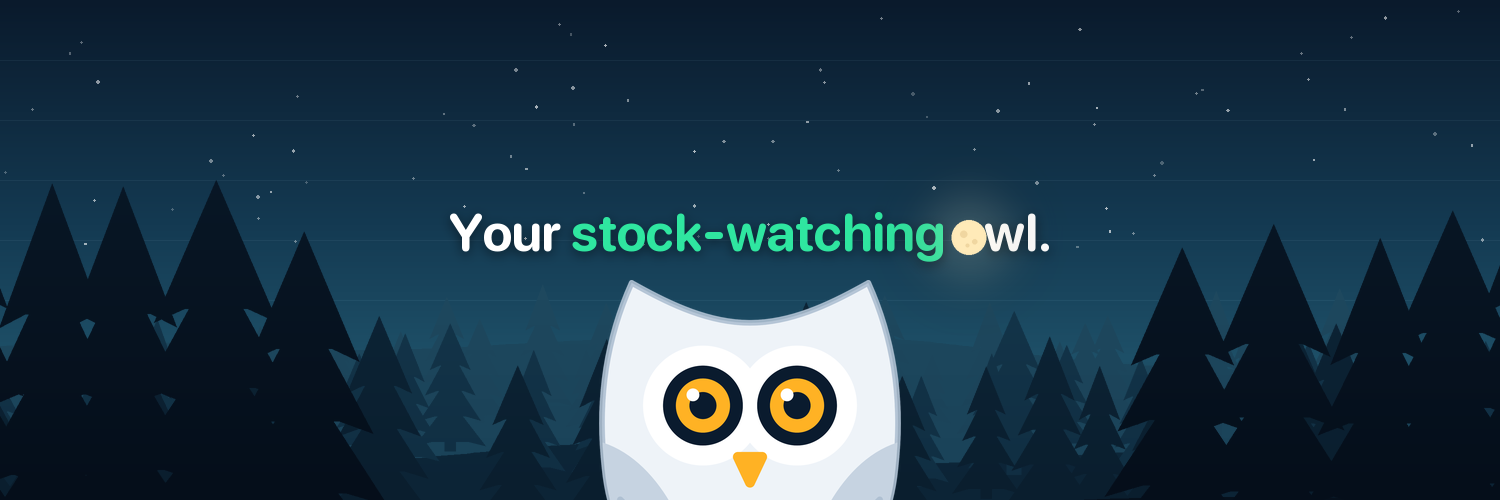
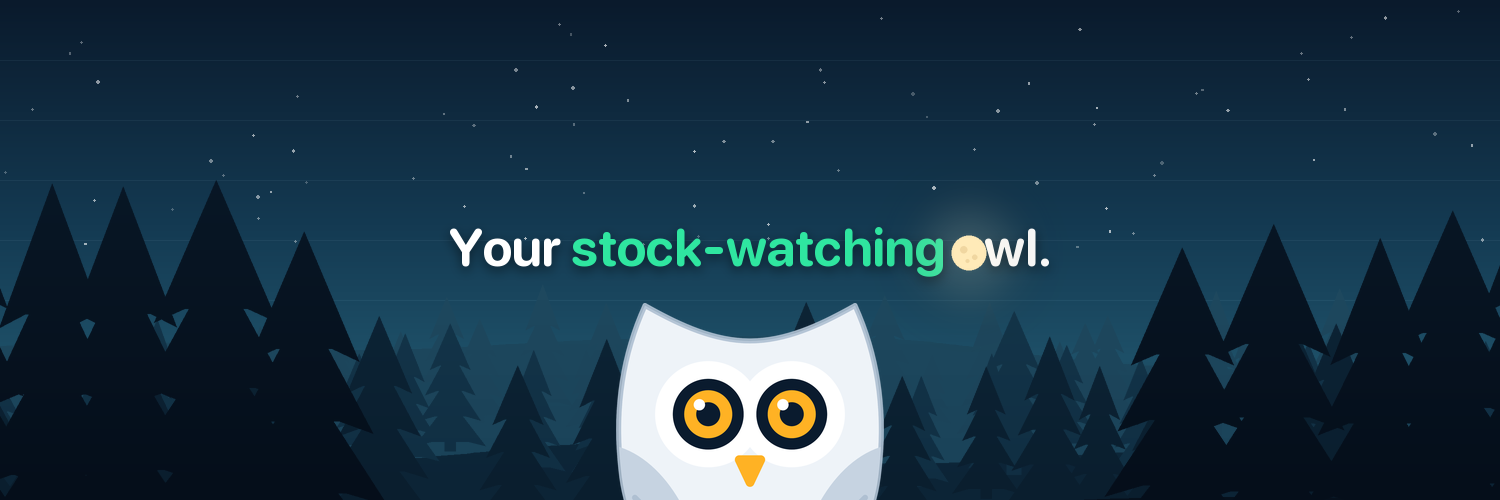
Header: larger line centered just below iPhone's back and share buttons with even side margins, Dippy rising beneath it with his whole beak in view

Changed region(s): [[0.3987, 0.57, 0.6133, 1.0], [0.276, 0.42, 0.7053, 0.57]]

diff --git a/Marketing/ScreenshotStudio/compose.py b/Marketing/ScreenshotStudio/compose.py
@@ -1344,7 +1344,7 @@ def forest(size, clearing, eyes=False, moon=True, moon_at=None, drop=0.0, front_
     return canvas
 
 
-def moonlit_line(canvas, text, cx, top, lang, size, max_width, unit):
+def moonlit_line(canvas, text, cx, top, lang, size, max_width, unit, middle=None):
     """One centered line with the *starred* words in mint, a soft shadow, and the moon standing in for a letter: {o},
     {ö} (its dots stay above the moon), or {.}, a full stop."""
     draw = ImageDraw.Draw(canvas)
@@ -1372,6 +1372,11 @@ def moonlit_line(canvas, text, cx, top, lang, size, max_width, unit):
         if width <= max_width or size < 10:
             break
         size *= 0.96
+    if middle is not None:
+        # Center the letters themselves, not the font's line box, on `middle`.
+        plain = "".join({"{o}": "o", "{ö}": "ö", "{.}": "."}.get(t, t) for t, _ in runs)
+        _, ink_top, _, ink_bottom = text_font.getbbox(plain)
+        top = middle - (ink_top + ink_bottom) / 2
     shadow = Image.new("RGBA", canvas.size, (0, 0, 0, 0))
     sd = ImageDraw.Draw(shadow)
     x = cx - width / 2
@@ -1416,9 +1421,10 @@ def header(raw, raw_dir, size, lang="en"):
     u = H / 1080
     cx = W / 2
     canvas = forest(size, cx, moon=False, drop=0.1, front_gap=0.8)
-    # Dippy from the bottom edge: his ears start just below the line, his beak sits just above the edge.
-    perch(canvas, raw_dir, "idle", cx, H * 0.56 + H * 0.7 * 0.97, H * 0.7)
-    moonlit_line(canvas, TAGLINES[lang], cx, H * 0.4, lang, H * 0.105, H * 1.3, u)
+    # The line sits right below iPhone's back and share buttons, as wide as the space between the screen's edges
+    # allows; Dippy rises under it, his beak just above the bottom edge.
+    moonlit_line(canvas, TAGLINES[lang], cx, 0, lang, H * 0.15, H * 1.25, u, middle=H * 0.505)
+    perch(canvas, raw_dir, "idle", cx, H * 0.605 + H * 0.62 * 0.97, H * 0.62)
     return canvas
 
 
